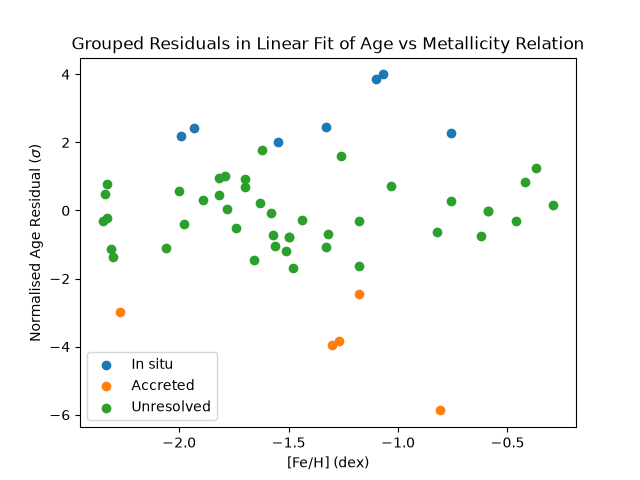
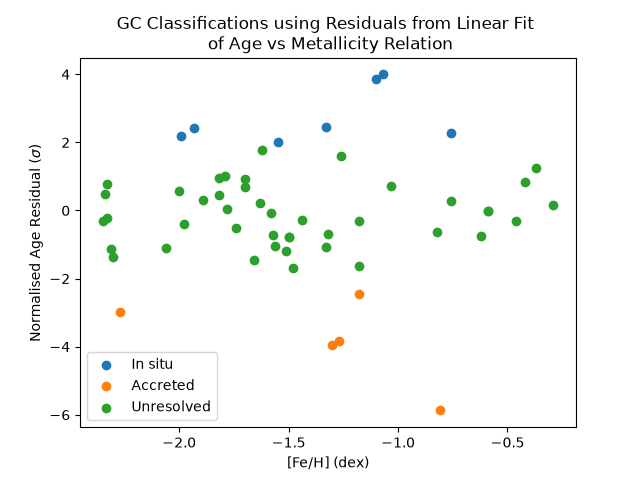
Made grouped residuals plot title clearer

Changed region(s): [[0.125, 0.0312, 0.9062, 0.125]]

diff --git a/src/AMR_plots/age_metallicity_plots.py b/src/AMR_plots/age_metallicity_plots.py
@@ -24,7 +24,7 @@ plt.errorbar(
 plt.xlabel("[Fe/H] (dex)")
 plt.ylabel("Age (Gyr)")
 plt.title("Age vs Metallicity Relation")
-plt.savefig("Age_vs_Metallicity.png")
+# plt.savefig("Age_vs_Metallicity.png")
 
 # Fit a linear curve then plot
 result = stats.linregress(vandenBergData["FeH"], vandenBergData["Age"])
@@ -39,7 +39,7 @@ plt.plot(
 
 # Add legend, then save plot
 plt.legend()
-plt.savefig("Age_vs_Metallicity_Linear_Fit.png")
+# plt.savefig("Age_vs_Metallicity_Linear_Fit.png")
 plt.show()
 
 # Plot normalised residuals for each cluster
@@ -48,7 +48,7 @@ plt.scatter(vandenBergData["FeH"], vandenBergData["Age_residual"])
 plt.xlabel("[Fe/H] (dex)")
 plt.ylabel(r"Normalised Age Residual ($\sigma$)")
 plt.title("Residuals in Linear Fit of Age vs Metallicity Relation")
-plt.savefig("Age_vs_Metallicity_Residuals.png")
+# plt.savefig("Age_vs_Metallicity_Residuals.png")
 plt.show()
 
 # Identify accreted and in-situ globular clusters based on residual
@@ -83,9 +83,9 @@ plt.scatter(
 
 plt.xlabel("[Fe/H] (dex)")
 plt.ylabel(r"Normalised Age Residual ($\sigma$)")
-plt.title("Grouped Residuals in Linear Fit of Age vs Metallicity Relation")
+plt.title("GC Classifications using Residuals from Linear Fit \n of Age vs Metallicity Relation")
 plt.legend(loc="lower left")
-plt.savefig("Age_vs_Metallicity_Grouped_Residuals.png")
+#plt.savefig("Age_vs_Metallicity_Grouped_Residuals.png")
 plt.show()
 
 # Save predicted classifications to csv
